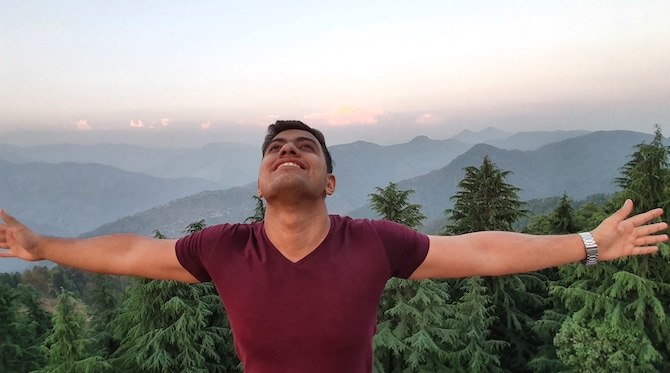
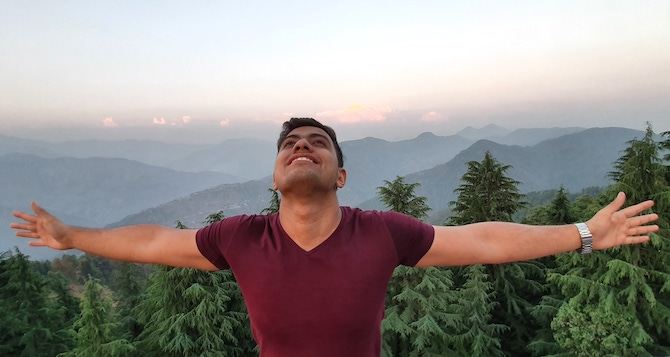
fixed image positioning

diff --git a/index.html b/index.html
@@ -130,14 +130,14 @@
         <div class="row">
 
           <div class="col-lg-6 wow bounceInUp" data-wow-duration="1.4s">
-            <div class="box" style="background-image: url('img/work.jpg'); background-size: cover">
+            <div class="box" style="background-image: url('img/work.jpg'); background-size: cover; background-position: center">
               <!-- <div class="icon" style="background: #fceef3;"><i class="ion-ios-analytics-outline" style="color: #ff689b;"></i></div> -->
               <h4 class="title"><a href="">Intellectual</a></h4>
               <!-- <p class="description">Voluptatum deleniti atque corrupti quos dolores et quas molestias excepturi sint occaecati cupiditate non provident</p> -->
             </div>
           </div>
           <div class="col-lg-6 wow bounceInUp" data-wow-duration="1.4s">
-            <div class="box" style="background-image: url('img/spiritual.jpg'); background-size: cover">
+            <div class="box" style="background-image: url('img/spiritual.jpg'); background-size: cover; background-position: center">
               
               <h4 class="title"><a href="">Spiritual</a></h4>
               
@@ -145,14 +145,14 @@
           </div>
 
           <div class="col-lg-6 wow bounceInUp" data-wow-delay="0.1s" data-wow-duration="1.4s">
-            <div class="box" style="background-image: url('img/physical.jpg'); background-size: cover">
+            <div class="box" style="background-image: url('img/physical.jpg'); background-size: cover; background-position: center">
               
               <h4 class="title"><a href="">Physical</a></h4>
               
             </div>
           </div>
           <div class="col-lg-6 wow bounceInUp" data-wow-delay="0.1s" data-wow-duration="1.4s">
-            <div class="box" style="background-image: url('img/emotional2.jpg'); background-size: cover">
+            <div class="box" style="background-image: url('img/emotional2.jpg'); background-size: cover; background-position: center">
               
               <h4 class="title"><a href="">Emotional</a></h4>
               
